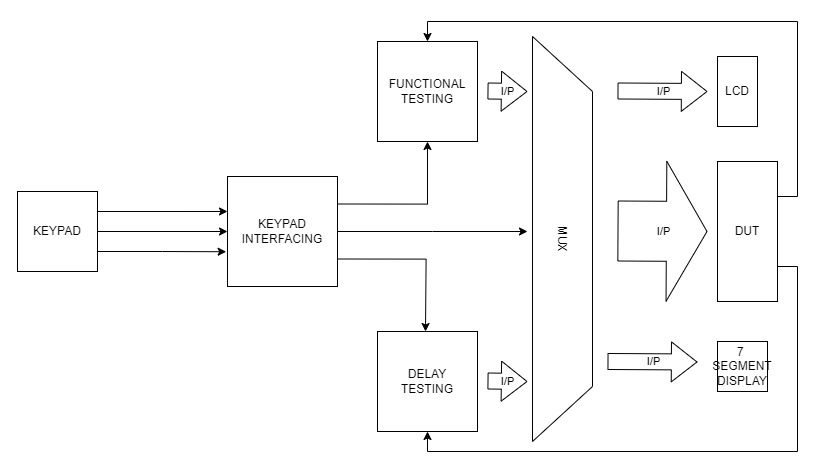
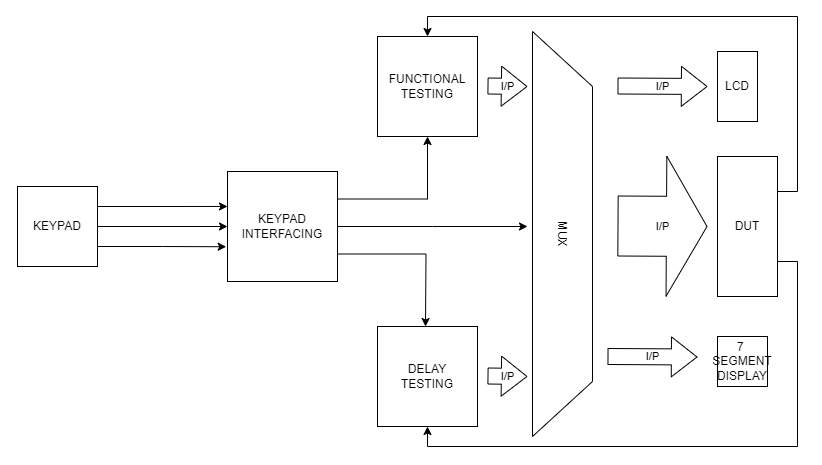
Update images

diff --git a/README.md b/README.md
@@ -46,11 +46,11 @@ This project aims to design a cost-effective, reconfigurable test instrument bas
 
 The primary model consists of a KEYPAD, TESTING modules, LCD, SEVEN SEGMENT, and a DUT. Those modules are connected with each other in the following format. The DELAY TESTING module is an extra module and it will be implemented in a later step.
 
-![IC Tester Design Structure](https://github.com/cepdnaclk/e19-co227-Automatic-IC-Testing-Application-Using-FPGA/assets/78247019/5419e397-d831-40bb-a5a2-6d574031d537)
+![IC Tester Design Structure](./images/IC_Tester_Model.png)
 
 The design of this tester supports 14-pin DIP basic digital logic ICs from the 74 series TTL and CMOS family. The devices tested in this project are 74LS32, 74LS00, 74LS02, 74LS08, 74LS86 and 74LS386. The testing model used will be based on the functional fault.
 
-![IC Tester Logical Testing Unit](https://github.com/cepdnaclk/e19-co227-Automatic-IC-Testing-Application-Using-FPGA/assets/78247019/31a4bdf2-bf59-4227-a770-b6412a20dc13)
+![IC Tester Logical Testing Unit](./images/IC_Tester_Logical_Unit.png)
 
 ## Assembly Instructions
 
